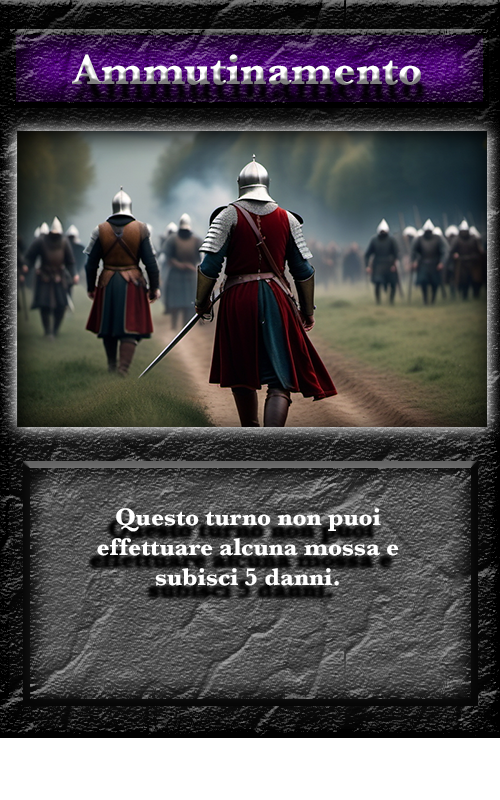
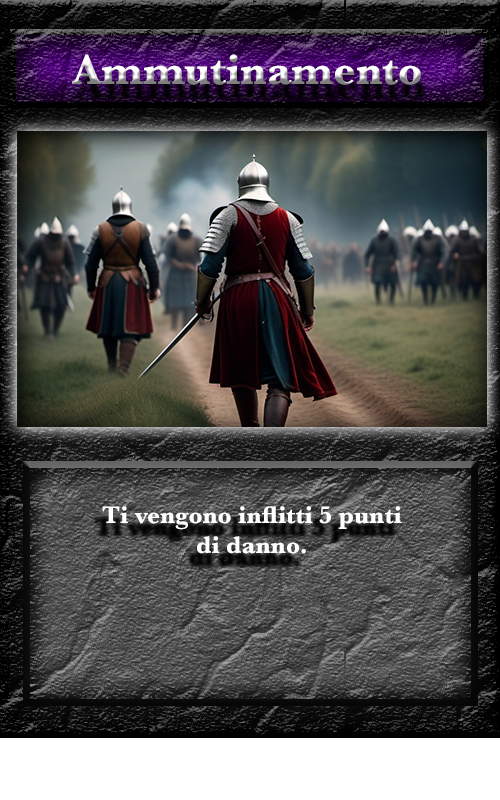
fix virgolette e ammutinamento

Changed region(s): [[0.18, 0.625, 0.81, 0.75]]

diff --git a/GiocoSPACCA/src/application/Admin/CreateTournamentController.java b/GiocoSPACCA/src/application/Admin/CreateTournamentController.java
@@ -109,6 +109,7 @@ public class CreateTournamentController extends GamesCreation {
     		
         	if(chooseDifficulty.getValue()==null)		// se non è stato specificato un livello (non sono presenti bot), imposta livello facile di default
         		chooseDifficulty.setValue(BOTDIFF.FACILE);
+        	       	
         	
 	    	if(tournamentMode.getValue()==GAMEMODE.SEMPLICE) { 
 	    		// TORNEO SEMPLICE --> 3 file (3 partite singole) nella directory creata
@@ -116,7 +117,7 @@ public class CreateTournamentController extends GamesCreation {
 	    		// file partita singola semifinale 1
 		    	File semi1=new File("./GiocoSPACCA/Informazioni_Partite/" + code + "/semifinale1.csv");
 		    	FileWriter fw1 = new FileWriter(semi1);
-		    	fw1.write("SingleGame,"+tournamentMode.getValue()+"," + rand.nextInt(2) + "\n");
+		    	fw1.write("SingleGame,"+chooseDifficulty.getValue()+"," + rand.nextInt(2) + "\n");
 		    	fw1.write("in," + playersInGame.remove(rand.nextInt(playersInGame.size())) + "\n");
 		    	fw1.write("in," + playersInGame.remove(rand.nextInt(playersInGame.size())) + "\n");
 		    	fw1.flush();
@@ -145,7 +146,7 @@ public class CreateTournamentController extends GamesCreation {
 		    	File gameFile=new File("./GiocoSPACCA/Informazioni_Partite/" + code + ".csv");
 		    	FileWriter fw = new FileWriter(gameFile);
 		    	Iterator<PlayerInGame> iter = playersInGame.iterator();
-		        fw.write(tournamentMode.getValue() + "," + chooseDifficulty.getValue() + "," + rand.nextInt(playersInGame.size()) + "\n");
+		        fw.write(tournamentMode.getValue() + "," + chooseDifficulty.getValue() + "," + rand.nextInt(MAXPLAYERS) + "\n");
 				while(iter.hasNext())
 					fw.write("in," + iter.next() + "\n");
 		    	

diff --git a/GiocoSPACCA/src/application/Play/Board.java b/GiocoSPACCA/src/application/Play/Board.java
@@ -97,6 +97,8 @@ public abstract class Board implements Initializable {		// superclasse dei contr
 				public void changed(ObservableValue<? extends ImageView> arg0, ImageView arg1, ImageView arg2) {
 					selectedImage = cards.getSelectionModel().getSelectedItem();
 					showSelectedCard.setImage(selectedImage.getImage());
+					showSelectedCard.setFitWidth(500);
+					showSelectedCard.setPreserveRatio(true);
 				}
 			});
 		}